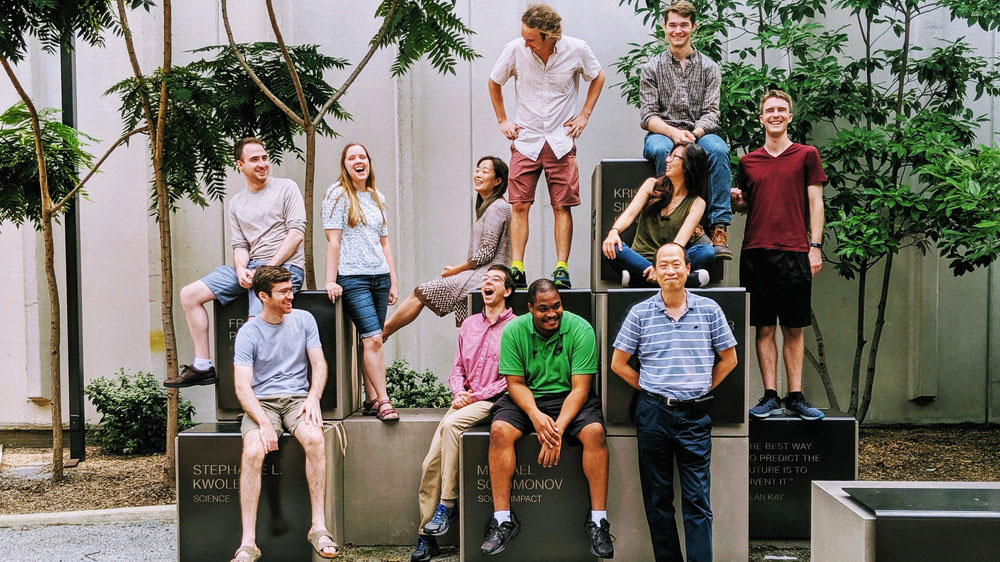
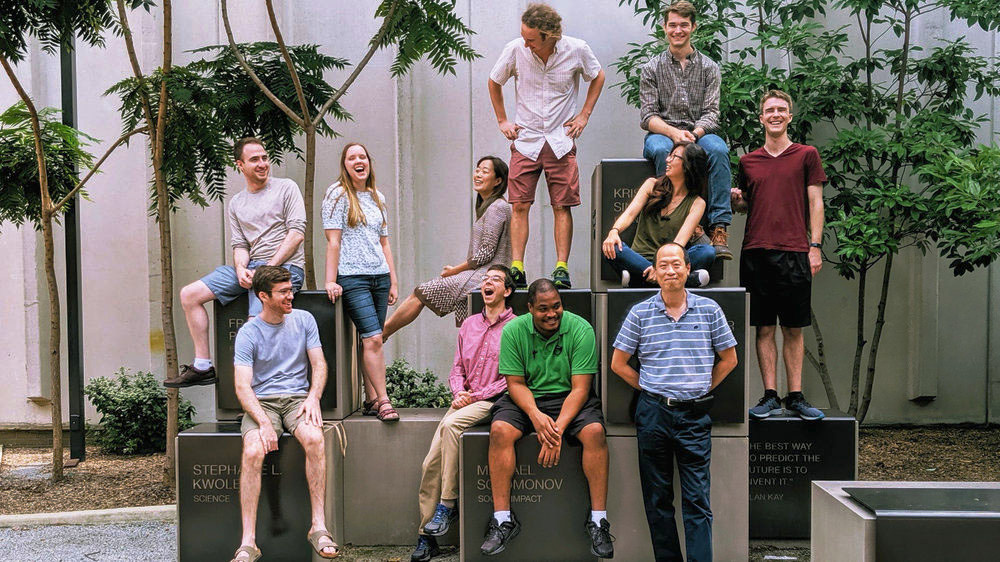
Contact page (#9)
- add smilow pic
- change contact page
- simplify and tweak css
- add and tweak group photo
- fix home link

diff --git a/global.css b/global.css
@@ -74,12 +74,6 @@ main {
 footer {
   padding: 40px;
 }
-nav {
-  display: flex;
-  justify-content: flex-end;
-  align-items: center;
-  flex-grow: 1;
-}
 
 /* headings */
 h1 {
@@ -95,7 +89,7 @@ h1 {
 h2 {
   font-family: var(--sans);
   font-size: var(--large);
-  font-weight: 400;
+  font-weight: 500;
   margin: 0;
   margin-bottom: 40px;
   text-align: center;
@@ -103,9 +97,18 @@ h2 {
   letter-spacing: 2px;
   text-transform: uppercase;
 }
-h4 {
+h3 {
+  font-size: var(--medium);
+  text-align: center;
   font-weight: 500;
-  margin: 20px 0;
+  margin: 0;
+  margin-top: 30px;
+}
+h4 {
+  font-size: var(--medium);
+  font-weight: 500;
+  margin: 0;
+  margin-top: 30px;
 }
 
 /* blocks */
@@ -113,9 +116,13 @@ p {
   margin: 0;
 }
 p:not(:first-child) {
-  margin-top: 20px;
+  margin-top: 10px;
 }
 p:not(:last-child) {
+  margin-bottom: 10px;
+}
+p > img {
+  margin-top: 20px;
   margin-bottom: 20px;
 }
 
@@ -129,6 +136,11 @@ button {
 a {
   color: var(--green);
   transition: color var(--fast);
+}
+img {
+  display: block;
+  margin: auto;
+  max-width: 100%;
 }
 
 /* animations */
@@ -150,6 +162,9 @@ a {
 }
 
 /* general classes */
+.center {
+  text-align: center;
+}
 .background {
   box-sizing: border-box;
   position: absolute;
@@ -166,12 +181,23 @@ a {
 header > *:not(.background) {
   z-index: 1;
 }
+.icon {
+  margin-right: 10px;
+}
+
+/* header */
 .logo {
   max-width: 100%;
   height: 100px;
 }
-.nav_link {
-  margin: 10px;
+nav {
+  display: flex;
+  justify-content: flex-end;
+  align-items: center;
+  flex-grow: 1;
+}
+nav > a {
+  padding: 10px;
   font-family: var(--sans);
   font-size: var(--tiny);
   font-weight: 500;
@@ -180,24 +206,28 @@ header > *:not(.background) {
   letter-spacing: 1px;
   transition: opacity var(--fast);
 }
-nav:hover .nav_link {
+nav:hover a {
   opacity: 0.25;
 }
-.nav_link:hover {
+nav > a:hover {
   opacity: 1 !important;
 }
-.social_link {
-  margin: 10px;
+
+/* footer */
+.social_links {
+  display: flex;
+  justify-content: center;
+  align-items: center;
+}
+.social_links > a {
+  padding: 10px;
   transition: opacity var(--fast);
 }
-.social_link:hover .social_link {
+.social_links:hover > a {
   opacity: 0.25;
 }
-.social_link:hover {
+.social_links > a:hover {
   opacity: 1 !important;
-}
-.icon {
-  margin-right: 5px;
 }
 
 /* mobile styles */

diff --git a/_includes/nav.html b/_includes/nav.html
@@ -1,25 +1,11 @@
 <nav>
-  <a
-    class="nav_link"
-    href="team"
-    title="About our team members and collaborators"
-    >Team</a
-  >
-  <a class="nav_link" href="research" title="What we do and how we do it"
-    >Research</a
-  >
-  <a class="nav_link" href="tools" title="Software, servers, and datasets"
-    >Tools</a
-  >
-  <a class="nav_link" href="publications" title="Preprints and published works"
-    >Publications</a
-  >
-  <a class="nav_link" href="join" title="Join the team">Join</a>
-  <a class="nav_link" href="blog" title="Musings about biology">Blog</a>
-  <a
-    class="nav_link"
-    href="contact"
-    title="Email, address, location, and social media"
+  <a href="team" title="About our team members and collaborators">Team</a>
+  <a href="research" title="What we do and how we do it">Research</a>
+  <a href="tools" title="Software, servers, and datasets">Tools</a>
+  <a href="publications" title="Preprints and published works">Publications</a>
+  <a href="join" title="Join the team">Join</a>
+  <a href="blog" title="Musings about biology">Blog</a>
+  <a href="contact" title="Email, address, location, and social media"
     >Contact</a
   >
 </nav>

diff --git a/_includes/footer.html b/_includes/footer.html
@@ -1,15 +1,13 @@
 <footer>
-  <div class="social_link">
-    <a class="social_link" href="contact" title="Contact"
-      ><i class="far fa-envelope fa-lg"></i
-    ></a>
-    <a class="social_link" href="{{ site.github }}" title="GitHub"
+  <div class="social_links">
+    <a href="contact" title="Contact"><i class="far fa-envelope fa-lg"></i></a>
+    <a href="{{ site.github }}" title="GitHub"
       ><i class="fab fa-github fa-lg"></i
     ></a>
-    <a class="social_link" href="{{ site.twitter }}" title="Twitter"
+    <a href="{{ site.twitter }}" title="Twitter"
       ><i class="fab fa-twitter fa-lg"></i
     ></a>
-    <a class="social_link" href="{{ site.instagram }}" title="Instagram"
+    <a href="{{ site.instagram }}" title="Instagram"
       ><i class="fab fa-instagram fa-lg"></i
     ></a>
   </div>

diff --git a/_includes/logo.html b/_includes/logo.html
@@ -1,4 +1,4 @@
-<a href="/">
+<a href=".">
   <img
     src="images/logo-animated.svg"
     class="logo"

diff --git a/contact.md b/contact.md
@@ -2,29 +2,30 @@
 layout: default
 title: Contact
 backgroundImage: images/background-smilow.jpg
+css: contact.css
 ---
 
 Our lab is part of the [Department of Systems Pharmacology and Translational Therapeutics](https://www.med.upenn.edu/syspharmatt/) at the [Perelman School of Medicine](https://www.med.upenn.edu/) at the [University of Pennsylvania](https://www.upenn.edu/).
+We are located on the 10th Floor of the [Smilow Center for Translational Research](https://www.facilities.upenn.edu/maps/locations/smilow-center-translational-research).
 
-<i class="far fa-envelope icon"></i> Email
+![Smilow Center for Translational Research](images/smilow.jpg)
 
-[{{ site.email }}](mailto:{{ site.email }})
+### <i class="far fa-envelope icon"></i>Email
 
-<i class="fab fa-github icon"></i> GitHub
+<p class="center">
+  <a href="mailto:{{ site.email }}">{{ site.email }}</a><br>
+  <a href="mailto:{{ site.email2 }}">{{ site.email2 }}</a>
+</p>
 
-[@{{ site.github }}](https://github.com/{{ site.github }})
+### <i class="far fa-address-book icon"></i>Mailing Address
 
-<i class="fab fa-twitter icon"></i> Twitter
-
-[@{{ site.twitter }}](https://twitter.com/{{ site.twitter }})
-
-<i class="fab fa-instagram icon"></i> Instagram
-
-[@{{ site.instagram }}](https://instagram.com/{{ site.instagram }})
-
-#### <i class="far fa-address-book icon"></i> Mailing Address
-
-3400 Civic Center Blvd.  
-10-131 SCTR  
-Philadelphia, PA 19104-5158  
+<p class="center">
+3400 Civic Center Blvd.<br>
+10-131 SCTR<br>
+Philadelphia, PA 19104-5158<br>
 USA
+</p>
+
+### <i class="fas fa-phone icon"></i>Phone
+
+<p class="center">(215) 573-2991</p>

diff --git a/index.md b/index.md
@@ -9,3 +9,5 @@ The Greene Lab is a [data science lab](https://en.wikipedia.org/wiki/Dry_lab) at
 
 We are a team of researchers dedicated to answering important questions in biology and medicine.
 Our work focuses on bringing together publicly available "[big data](https://en.wikipedia.org/wiki/Big_data)", developing new computational methods to analyze that data, and creating tools to put those pieces into the hands of every biologist.
+
+![The Greene Lab team](images/team/group-photo-1.jpg)

diff --git a/404.md b/404.md
@@ -4,9 +4,9 @@ layout: default
 title: 404
 ---
 
-<p style="text-align: center">Page not found :(</p>
+<p class="center">Page not found :(</p>
 
-<p style="text-align: center">
+<p class="center">
 The page you're looking for may have moved.
 Try <a href="https://www.google.com/search?q=site%3Agreenelab.com&oq=site%3Agreenelab.com">searching the whole site</a> for the content you want.
 </p>
